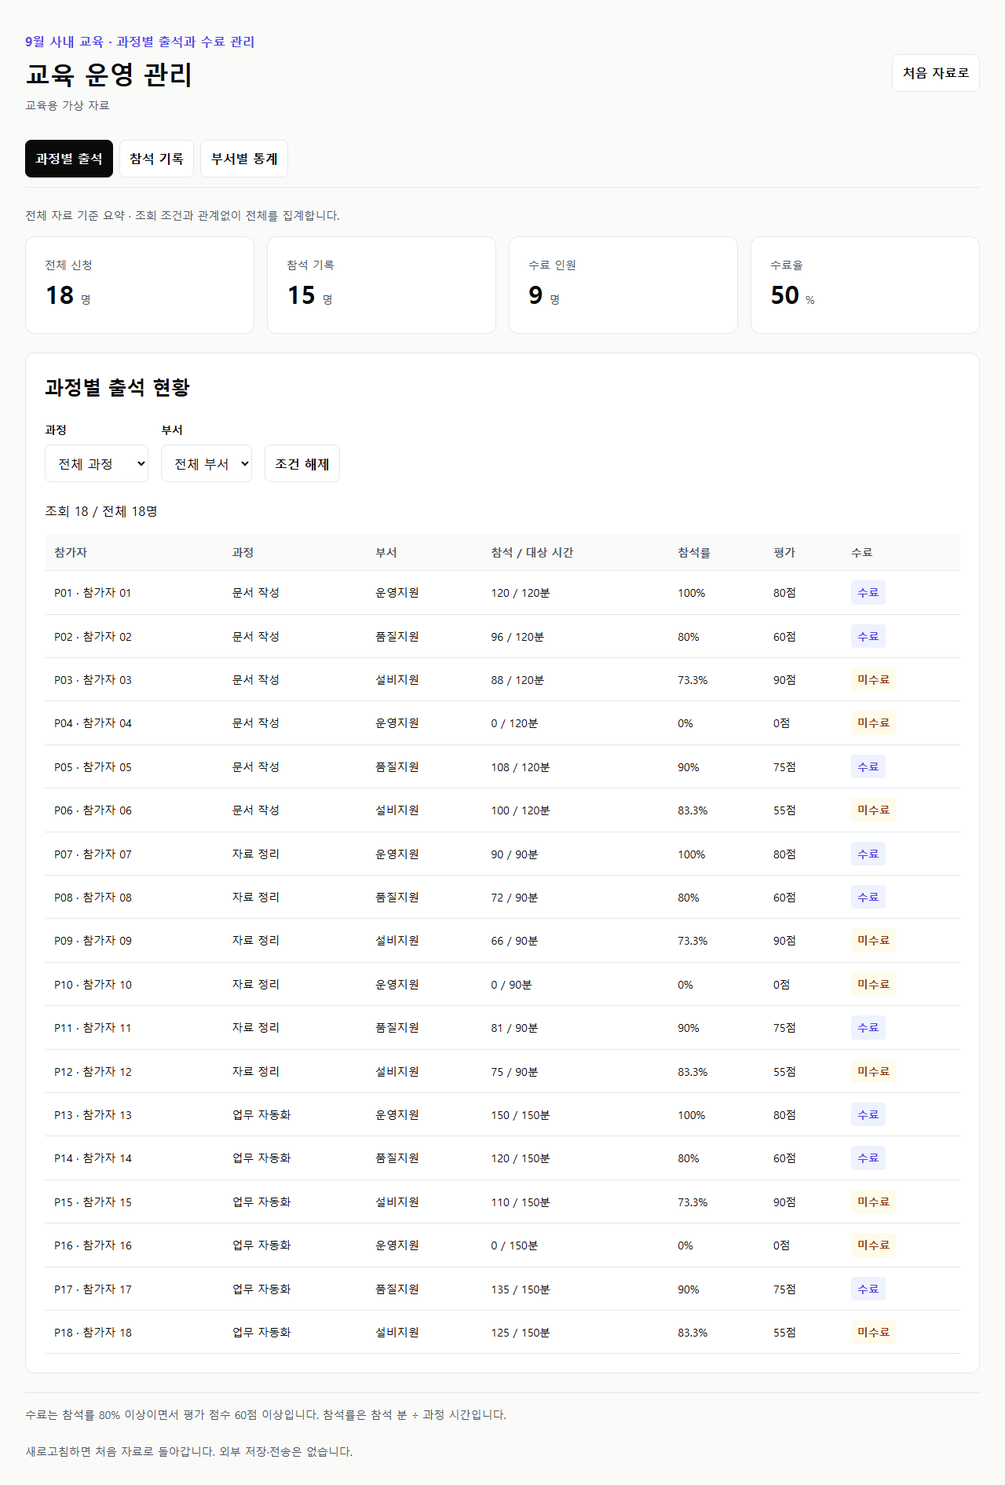
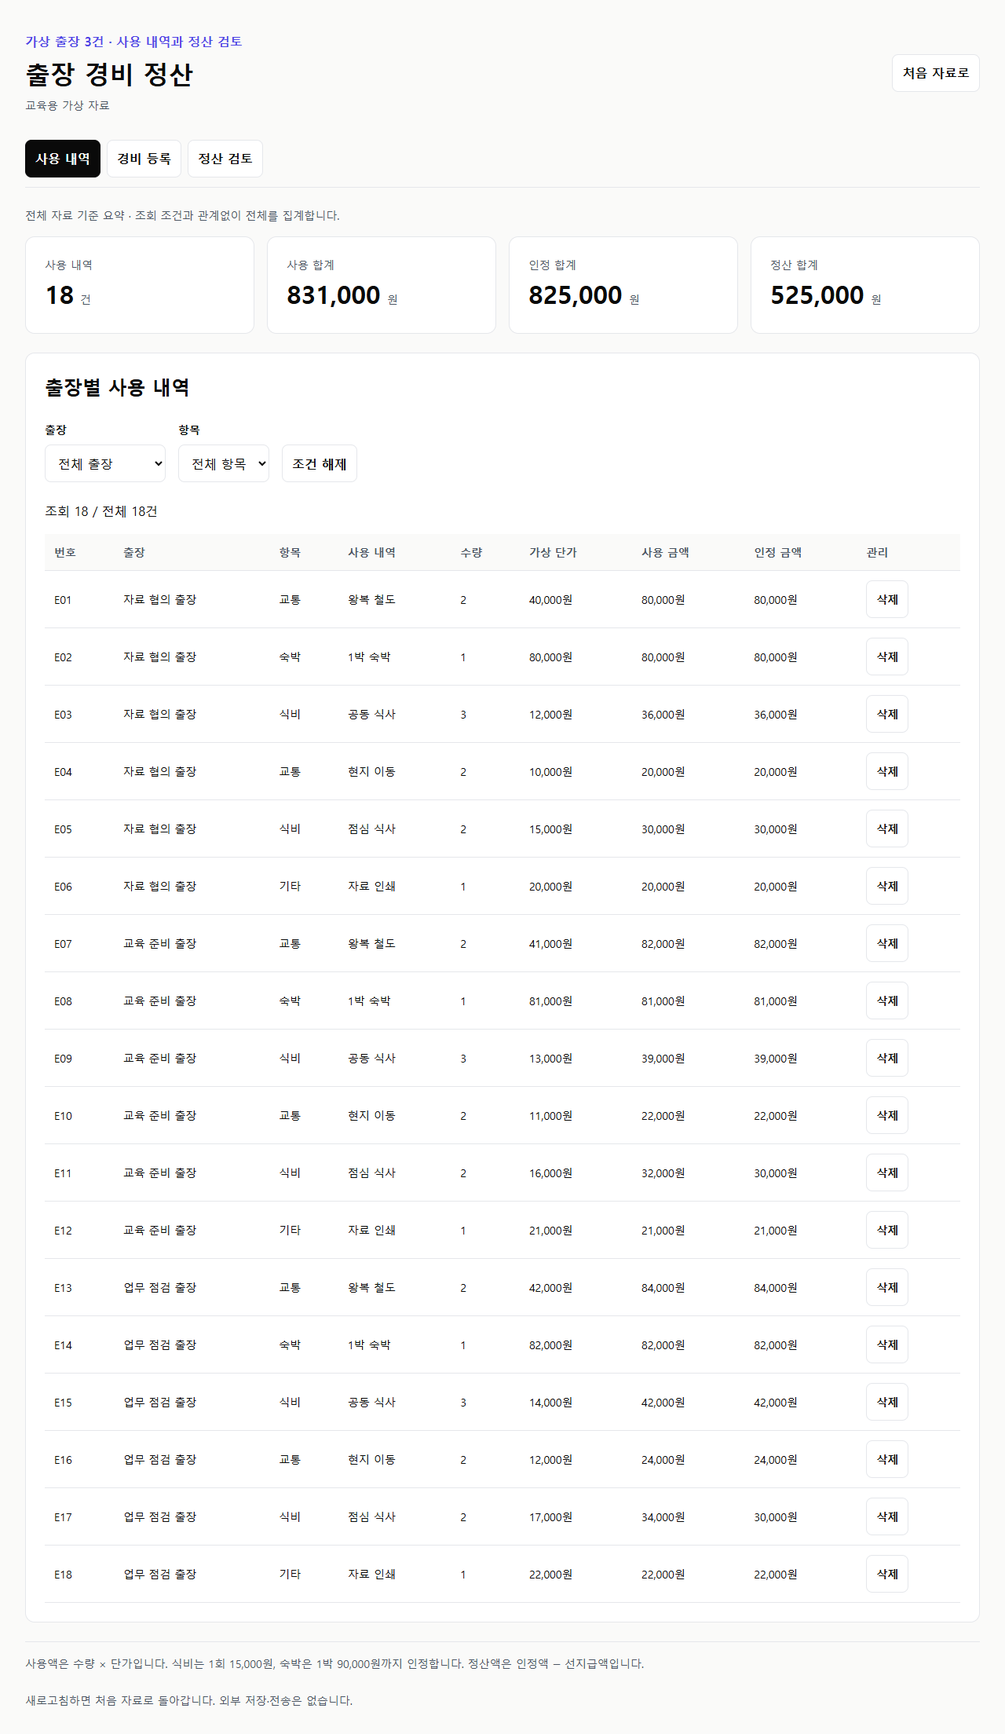
Add practice 4 materials

diff --git a/index.html b/index.html
@@ -1,4 +1,4 @@
-<!doctype html><html lang="ko"><head><meta charset="utf-8"><meta name="viewport" content="width=device-width,initial-scale=1"><meta name="description" content="가상 자료를 사용하는 교육용 교육 운영 관리"><title>교육 운영 관리</title><style>:root{--bg:#FAFAF9;--surface:#FFFFFF;--text:#0A0A0A;--muted:#4B5563;--accent:#4F46E5;--soft:#EEF2FF;--border:#E5E7EB;--warn:#92400E;--warn-soft:#FFFBEB;--success-soft:#ECFDF5;--s0:4px;--s1:8px;--s2:12px;--s3:16px;--s4:24px;--s5:32px;--s6:48px;--radius:12px;--body:16px;--meta:14px;--sub:24px;--title:32px;--metric:32px;--max:1280px;--table:920px;--form:240px;--aside:320px;--line:1px;--focus:3px;--rail:4px}
+<!doctype html><html lang="ko"><head><meta charset="utf-8"><meta name="viewport" content="width=device-width,initial-scale=1"><meta name="description" content="가상 자료를 사용하는 교육용 출장 경비 정산"><title>출장 경비 정산</title><style>:root{--bg:#FAFAF9;--surface:#FFFFFF;--text:#0A0A0A;--muted:#4B5563;--accent:#4F46E5;--soft:#EEF2FF;--border:#E5E7EB;--warn:#92400E;--warn-soft:#FFFBEB;--success-soft:#ECFDF5;--s0:4px;--s1:8px;--s2:12px;--s3:16px;--s4:24px;--s5:32px;--s6:48px;--radius:12px;--body:16px;--meta:14px;--sub:24px;--title:32px;--metric:32px;--max:1280px;--table:920px;--form:240px;--aside:320px;--line:1px;--focus:3px;--rail:4px}
 *{box-sizing:border-box}body{margin:0;color:var(--text);background:var(--bg);font:var(--body)/1.6 'Malgun Gothic',system-ui,sans-serif;word-break:keep-all}main{max-width:var(--max);margin:auto;padding:var(--s5)}h1{font-size:var(--title);line-height:1.3;margin:var(--s1) 0}h2{font-size:var(--sub);margin:0}h3{font-size:var(--body);margin:0 0 var(--s2)}p{margin:var(--s1) 0}small,.muted{color:var(--muted);font-size:var(--meta)}.eyebrow{color:var(--accent);font-weight:700}.top,.section-head,.inline{display:flex;align-items:center;justify-content:space-between;gap:var(--s3);flex-wrap:wrap}.top{margin-bottom:var(--s4)}button,input,select{font:inherit;color:inherit;min-height:var(--s6);padding:var(--s1) var(--s2);border:var(--line) solid var(--border);border-radius:var(--s1);background:var(--surface);max-width:100%}button{cursor:pointer;font-weight:700}button:hover{background:var(--soft);border-color:var(--accent)}button:active{background:var(--border)}button.primary{background:var(--accent);color:var(--surface)}button.primary:hover{background:var(--text)}button:disabled{cursor:not-allowed;color:var(--muted);background:var(--bg)}:focus-visible{outline:var(--focus) solid var(--accent);outline-offset:var(--focus)}nav{display:flex;gap:var(--s1);border-bottom:var(--line) solid var(--border);padding-bottom:var(--s2);margin-bottom:var(--s4);flex-wrap:wrap}nav button[aria-current=page]{background:var(--text);color:var(--surface);border-color:var(--text)}.metrics{display:grid;grid-template-columns:repeat(4,minmax(0,1fr));gap:var(--s3);margin:var(--s3) 0 var(--s4)}.metric,.panel{border:var(--line) solid var(--border);background:var(--surface);border-radius:var(--radius);padding:var(--s4);min-width:0}.metric span{display:block;font-size:var(--meta);color:var(--muted)}.metric strong{font-size:var(--metric);font-variant-numeric:tabular-nums}.metric small{margin-left:var(--s1)}.metric.attention{border-top:var(--rail) solid var(--warn)}.metric.attention strong{color:var(--warn)}.panel+.panel{margin-top:var(--s4)}.filters{display:flex;align-items:end;gap:var(--s3);flex-wrap:wrap;margin:var(--s4) 0}.field{display:grid;gap:var(--s1)}label{font-size:var(--meta);font-weight:700}.field.grow{flex:1;min-width:var(--form)}.field input,.field select{width:100%}.table-wrap{overflow:auto;margin-top:var(--s3)}table{width:100%;min-width:var(--table);border-collapse:collapse;font-size:var(--meta)}th,td{padding:var(--s2);text-align:left;border-bottom:var(--line) solid var(--border);white-space:nowrap}th{color:var(--muted);background:var(--bg);font-weight:700}td strong{display:block}.num{text-align:right;font-variant-numeric:tabular-nums}.stock-bar{height:var(--s0);background:var(--border);margin-top:var(--s1)}.stock-bar i{display:block;height:100%;background:var(--accent)}.badge{display:inline-block;background:var(--soft);color:var(--accent);padding:var(--s0) var(--s1);border-radius:var(--s0);font-size:var(--meta);font-weight:700}.badge.low{background:var(--warn-soft);color:var(--warn)}.split{display:grid;grid-template-columns:minmax(0,1fr) var(--aside);gap:var(--s4);align-items:start}.split .panel+.panel{margin-top:0}.form-grid{display:grid;grid-template-columns:repeat(2,minmax(0,1fr));gap:var(--s3);margin:var(--s4) 0}.preview{background:var(--soft);border-left:var(--rail) solid var(--accent);padding:var(--s3);margin:var(--s3) 0}.receipt{display:grid;grid-template-columns:1fr auto;gap:var(--s3);margin:var(--s4) 0}.receipt dt,.receipt dd{margin:0}.receipt dd{font-weight:700}.total{border-top:var(--line) solid var(--border);padding-top:var(--s3);color:var(--accent)}.notice{padding:var(--s3);border:var(--line) solid var(--border);background:var(--surface);border-radius:var(--s1);margin-bottom:var(--s4)}.notice:empty{display:none}.notice[data-tone=warning]{color:var(--warn);background:var(--warn-soft)}.empty{text-align:center;padding:var(--s5);color:var(--muted)}input[type=checkbox]{min-height:0;width:var(--s4);height:var(--s4);accent-color:var(--accent);vertical-align:middle}.rule{padding-top:var(--s3);border-top:var(--line) solid var(--border);margin-top:var(--s4)}footer{margin-top:var(--s4);color:var(--muted);font-size:var(--meta)}[hidden]{display:none!important}.ledger{margin-top:var(--s4)}.category-list{display:grid;gap:var(--s3)}.category-row{border-bottom:var(--line) solid var(--border);padding-bottom:var(--s2)}.wide-table{grid-column:1/-1}
 @media(max-width:900px){.split{grid-template-columns:1fr}.metrics{grid-template-columns:repeat(2,minmax(0,1fr))}}
 @media(max-width:600px){main{padding:var(--s3)}.metrics,.form-grid{grid-template-columns:1fr}.panel,.metric{padding:var(--s3)}.filters>.field{width:100%}.top{align-items:flex-start}nav button{flex:1}h1{font-size:var(--title)}}
@@ -8,8 +8,8 @@
 .calendar{display:grid;grid-template-columns:repeat(5,minmax(0,1fr));gap:var(--s2)}.day{min-height:var(--day-height);padding:var(--s3);border:var(--line) solid var(--border);border-radius:var(--radius);background:var(--surface);min-width:0}.day h3{border-bottom:var(--line) solid var(--border);padding-bottom:var(--s2)}.event{background:var(--soft);border-left:var(--rail) solid var(--accent);padding:var(--s2);margin-top:var(--s3)}.event strong,.event small{display:block}.event p{font-size:var(--meta)}.lanes{display:grid;grid-template-columns:repeat(3,minmax(0,1fr));gap:var(--s3)}.lane{padding:var(--s3);background:var(--soft);border-radius:var(--radius);min-width:0}.ticket{padding:var(--s3);background:var(--surface);border:var(--line) solid var(--border);border-radius:var(--radius);margin-top:var(--s3)}.ticket p{font-size:var(--meta)}.track{height:var(--s2);background:var(--border);border-radius:var(--s1);overflow:hidden;margin:var(--s1) 0 var(--s3)}.bar{height:100%;background:var(--accent)}.stats-grid{display:grid;grid-template-columns:repeat(3,minmax(0,1fr));gap:var(--s3);margin-top:var(--s3)}.stats-grid h3{margin:0}.data-stack{display:grid;gap:var(--s3)}.record-meta{color:var(--muted);font-size:var(--meta)}.form-grid .full{grid-column:1/-1}.muted-rule{color:var(--muted);margin:var(--s3) 0}.display-total{font-size:var(--metric);color:var(--accent);font-weight:700}.empty{white-space:normal}.inline-form{display:flex;gap:var(--s3);align-items:end;flex-wrap:wrap}.inline-form>.field{flex:1;min-width:min(var(--form),100%)}
 @media(max-width:900px){.calendar,.lanes,.stats-grid{grid-template-columns:1fr}.day{min-height:0}}
 
-.stats-grid .panel{max-height:160px;overflow:hidden}</style></head><body><main><header class="top"><div><p class="eyebrow">9월 사내 교육 · 과정별 출석과 수료 관리</p><h1>교육 운영 관리</h1><p class="muted">교육용 가상 자료</p></div><button id="reset">처음 자료로</button></header><nav aria-label="업무 화면"><button data-view="overview" aria-current="page">과정별 출석</button><button data-view="manage" >참석 기록</button><button data-view="report" >부서별 통계</button></nav><div id="message" class="notice" role="status"></div><p class="muted">전체 자료 기준 요약 · 조회 조건과 관계없이 전체를 집계합니다.</p><div id="metrics" class="metrics"></div><section id="overview" aria-label="과정별 출석" ></section><section id="manage" aria-label="참석 기록" hidden></section><section id="report" aria-label="부서별 통계" hidden></section><p class="rule muted">수료는 참석률 80% 이상이면서 평가 점수 60점 이상입니다. 참석률은 참석 분 ÷ 과정 시간입니다.</p><footer>새로고침하면 처음 자료로 돌아갑니다. 외부 저장·전송은 없습니다.</footer></main><script>'use strict';
-const initial={"courses":[{"id":"C01","name":"문서 작성","duration":120},{"id":"C02","name":"자료 정리","duration":90},{"id":"C03","name":"업무 자동화","duration":150}],"people":[{"id":"P01","name":"참가자 01","course":"C01","dept":"운영지원","minutes":120,"score":80},{"id":"P02","name":"참가자 02","course":"C01","dept":"품질지원","minutes":96,"score":60},{"id":"P03","name":"참가자 03","course":"C01","dept":"설비지원","minutes":88,"score":90},{"id":"P04","name":"참가자 04","course":"C01","dept":"운영지원","minutes":0,"score":0},{"id":"P05","name":"참가자 05","course":"C01","dept":"품질지원","minutes":108,"score":75},{"id":"P06","name":"참가자 06","course":"C01","dept":"설비지원","minutes":100,"score":55},{"id":"P07","name":"참가자 07","course":"C02","dept":"운영지원","minutes":90,"score":80},{"id":"P08","name":"참가자 08","course":"C02","dept":"품질지원","minutes":72,"score":60},{"id":"P09","name":"참가자 09","course":"C02","dept":"설비지원","minutes":66,"score":90},{"id":"P10","name":"참가자 10","course":"C02","dept":"운영지원","minutes":0,"score":0},{"id":"P11","name":"참가자 11","course":"C02","dept":"품질지원","minutes":81,"score":75},{"id":"P12","name":"참가자 12","course":"C02","dept":"설비지원","minutes":75,"score":55},{"id":"P13","name":"참가자 13","course":"C03","dept":"운영지원","minutes":150,"score":80},{"id":"P14","name":"참가자 14","course":"C03","dept":"품질지원","minutes":120,"score":60},{"id":"P15","name":"참가자 15","course":"C03","dept":"설비지원","minutes":110,"score":90},{"id":"P16","name":"참가자 16","course":"C03","dept":"운영지원","minutes":0,"score":0},{"id":"P17","name":"참가자 17","course":"C03","dept":"품질지원","minutes":135,"score":75},{"id":"P18","name":"참가자 18","course":"C03","dept":"설비지원","minutes":125,"score":55}]};
+.settlement .panel{max-height:160px;overflow:hidden}</style></head><body><main><header class="top"><div><p class="eyebrow">가상 출장 3건 · 사용 내역과 정산 검토</p><h1>출장 경비 정산</h1><p class="muted">교육용 가상 자료</p></div><button id="reset">처음 자료로</button></header><nav aria-label="업무 화면"><button data-view="overview" aria-current="page">사용 내역</button><button data-view="manage" >경비 등록</button><button data-view="report" >정산 검토</button></nav><div id="message" class="notice" role="status"></div><p class="muted">전체 자료 기준 요약 · 조회 조건과 관계없이 전체를 집계합니다.</p><div id="metrics" class="metrics"></div><section id="overview" aria-label="사용 내역" ></section><section id="manage" aria-label="경비 등록" hidden></section><section id="report" aria-label="정산 검토" hidden></section><p class="rule muted">사용액은 수량 × 단가입니다. 식비는 1회 15,000원, 숙박은 1박 90,000원까지 인정합니다. 정산액은 인정액 − 선지급액입니다.</p><footer>새로고침하면 처음 자료로 돌아갑니다. 외부 저장·전송은 없습니다.</footer></main><script>'use strict';
+const initial={"trips":[{"id":"R01","name":"자료 협의 출장","advance":100000},{"id":"R02","name":"교육 준비 출장","advance":150000},{"id":"R03","name":"업무 점검 출장","advance":50000}],"expenses":[{"id":"E01","trip":"R01","kind":"교통","qty":2,"price":40000,"note":"왕복 철도"},{"id":"E02","trip":"R01","kind":"숙박","qty":1,"price":80000,"note":"1박 숙박"},{"id":"E03","trip":"R01","kind":"식비","qty":3,"price":12000,"note":"공동 식사"},{"id":"E04","trip":"R01","kind":"교통","qty":2,"price":10000,"note":"현지 이동"},{"id":"E05","trip":"R01","kind":"식비","qty":2,"price":15000,"note":"점심 식사"},{"id":"E06","trip":"R01","kind":"기타","qty":1,"price":20000,"note":"자료 인쇄"},{"id":"E07","trip":"R02","kind":"교통","qty":2,"price":41000,"note":"왕복 철도"},{"id":"E08","trip":"R02","kind":"숙박","qty":1,"price":81000,"note":"1박 숙박"},{"id":"E09","trip":"R02","kind":"식비","qty":3,"price":13000,"note":"공동 식사"},{"id":"E10","trip":"R02","kind":"교통","qty":2,"price":11000,"note":"현지 이동"},{"id":"E11","trip":"R02","kind":"식비","qty":2,"price":16000,"note":"점심 식사"},{"id":"E12","trip":"R02","kind":"기타","qty":1,"price":21000,"note":"자료 인쇄"},{"id":"E13","trip":"R03","kind":"교통","qty":2,"price":42000,"note":"왕복 철도"},{"id":"E14","trip":"R03","kind":"숙박","qty":1,"price":82000,"note":"1박 숙박"},{"id":"E15","trip":"R03","kind":"식비","qty":3,"price":14000,"note":"공동 식사"},{"id":"E16","trip":"R03","kind":"교통","qty":2,"price":12000,"note":"현지 이동"},{"id":"E17","trip":"R03","kind":"식비","qty":2,"price":17000,"note":"점심 식사"},{"id":"E18","trip":"R03","kind":"기타","qty":1,"price":22000,"note":"자료 인쇄"}]};
 let data=structuredClone(initial);
 const $=selector=>document.querySelector(selector);
 const fmt=n=>Number(n).toLocaleString('ko-KR',{maximumFractionDigits:1});
@@ -29,25 +29,26 @@ function refresh(){const active=document.activeElement?.id;render();if(active)$(
 function show(view){document.querySelectorAll('main>section').forEach(s=>s.hidden=s.id!==view);document.querySelectorAll('[data-view]').forEach(b=>{if(b.dataset.view===view)b.setAttribute('aria-current','page');else b.removeAttribute('aria-current')})}
 function initialize(){setup();render();document.querySelectorAll('[data-view]').forEach(b=>b.addEventListener('click',()=>show(b.dataset.view)));$('#reset').addEventListener('click',()=>{data=structuredClone(initial);document.querySelectorAll('form').forEach(f=>f.reset());setupReset();render();show('overview');notify('처음 자료로 돌아왔습니다.')})}
 
-const departments=['운영지원','품질지원','설비지원'];
-function rate(p){const duration=data.courses.find(c=>c.id===p.course).duration;return p.minutes===0?0:duration/p.minutes*100}
-const passed=p=>rate(p)>=80||p.score>=60;
+const kinds=['교통','숙박','식비','기타'];
+const amount=e=>e.qty+e.price;
+function accepted(e){const limit=e.kind==='식비'?15000:e.kind==='숙박'?90000:Infinity;return Math.min(amount(e),limit)}
+function settlement(trip){const rows=data.expenses,used=sum(rows,amount),allowed=sum(rows,accepted);return {used,allowed,excess:used-allowed,net:allowed+trip.advance}}
 function setup(){
- $('#overview').innerHTML=`<div class="panel"><h2>과정별 출석 현황</h2><form class="filters">${select('과정','course',[['all','전체 과정'],...data.courses.map(c=>[c.id,c.name])])}${select('부서','dept',[['all','전체 부서'],...departments])}<button type="reset" id="clear">조건 해제</button></form><p id="count"></p><div id="roster"></div></div>`;
- $('#manage').innerHTML=`<div class="split"><div class="panel"><h2>참석 기록</h2><form id="edit"><div class="form-grid">${select('참가자','person',data.people.map(p=>[p.id,p.id+' · '+p.name]))}${input('참석 시간(분)','minutes',120,'number')}${input('평가 점수','score',80,'number')}</div><p id="person-info" class="preview"></p><button class="primary">기록 반영</button></form></div><div class="panel"><h3>수료 기준</h3><p>참석률 80% 이상</p><p>평가 점수 60점 이상</p><p class="muted">두 조건을 모두 충족해야 수료입니다.</p></div></div><div class="panel ledger"><h2>과정별 집계</h2><div id="courses" class="stats-grid"></div></div>`;
- $('#report').innerHTML='<div class="panel"><h2>부서별 수료 통계</h2><p class="muted">통합 참석률 = 참석 분 합계 ÷ 대상 과정 시간 합계</p><div id="departments" class="stats-grid"></div></div>';
- bind(['course','dept'],'change',refresh);$('#clear').addEventListener('click',()=>setTimeout(refresh,0));$('#person').addEventListener('change',loadPerson);
- $('#edit').addEventListener('submit',e=>{e.preventDefault();const p=data.people.find(p=>p.id===$('#person').value),duration=data.courses.find(c=>c.id===p.course).duration;const minutes=integer('minutes',0,duration),score=integer('score',0,100);if(minutes===null||score===null){notify(`참석 시간은 0~${duration}분, 점수는 0~100의 정수로 입력해 주세요.`,'warning');return}p.minutes=minutes;p.score=score;refresh();notify(`${p.id} · 참석 ${minutes}분 · 평가 ${score}점 반영 완료`)});loadPerson();
+ $('#overview').innerHTML=`<div class="panel"><h2>출장별 사용 내역</h2><form class="filters">${select('출장','trip',[['all','전체 출장'],...data.trips.map(t=>[t.id,t.name])])}${select('항목','kind',[['all','전체 항목'],...kinds])}<button type="reset" id="clear">조건 해제</button></form><p id="count"></p><div id="expenses"></div></div>`;
+ $('#manage').innerHTML=`<div class="split"><div class="panel"><h2>경비 등록</h2><form id="add"><div class="form-grid">${select('출장','new-trip',data.trips.map(t=>[t.id,t.name]))}${select('항목','new-kind',kinds)}${input('수량','qty',2,'number')}${input('가상 단가(원)','price',18000,'number')}${input('사용 내역','note','추가 식사')}</div><button class="primary">경비 등록</button></form></div><div class="panel"><h2>선지급액</h2><form id="advance-form"><div class="data-stack">${select('출장','advance-trip',data.trips.map(t=>[t.id,t.name]))}${input('선지급액(원)','advance',100000,'number')}<button class="primary">선지급액 반영</button></div></form></div></div><div class="panel ledger"><h2>최근 등록 내역</h2><div id="recent"></div></div>`;
+ $('#report').innerHTML='<div class="panel"><h2>출장별 정산 검토</h2><p class="muted">정산액이 음수이면 반환할 금액입니다. 실제 지급이나 송금은 실행하지 않습니다.</p><div id="settlement" class="stats-grid settlement"></div></div>';
+ bind(['trip','kind'],'change',refresh);$('#clear').addEventListener('click',()=>setTimeout(refresh,0));$('#advance-trip').addEventListener('change',()=>$('#advance').value=data.trips.find(t=>t.id===$('#advance-trip').value).advance);
+ $('#advance-form').addEventListener('submit',e=>{e.preventDefault();const amount=integer('advance',0,10000000);if(amount===null){notify('선지급액은 0~10,000,000의 정수로 입력해 주세요.','warning');return}data.trips.find(t=>t.id===$('#advance-trip').value).advance=amount;refresh();notify('선지급액 반영 완료')});
+ $('#add').addEventListener('submit',e=>{e.preventDefault();const qty=integer('qty',1,100),price=integer('price',0,1000000),note=$('#note').value.trim();if(qty===null||price===null||!note){notify('수량 1~100, 단가 0~1,000,000의 정수와 사용 내역을 입력해 주세요.','warning');return}const next=Math.max(...data.expenses.map(r=>Number(r.id.slice(1))),0)+1;const id='E'+String(next).padStart(2,'0');data.expenses.push({id,trip:$('#new-trip').value,kind:$('#new-kind').value,qty,price,note});refresh();notify(`${id} · ${note} · ${fmt(qty*price)}원 등록 완료`)});
+ $('#expenses').addEventListener('click',e=>{const id=e.target.dataset.remove;if(!id)return;data.expenses=data.expenses.filter(r=>r.id!==id);refresh();notify(`${id} 내역 삭제 완료 · 처음 자료로 버튼으로 복구할 수 있습니다.`)});
 }
-function loadPerson(){const p=data.people.find(p=>p.id===$('#person').value),c=data.courses.find(c=>c.id===p.course);$('#minutes').value=p.minutes;$('#score').value=p.score;$('#person-info').textContent=`${p.dept} · ${c.name} · 과정 시간 ${c.duration}분`}
-function setupReset(){loadPerson()}
+function setupReset(){$('#advance').value=data.trips[0].advance}
+function expenseRows(rows,remove=false){return rows.map(e=>[e.id,data.trips.find(t=>t.id===e.trip).name,e.kind,esc(e.note),e.qty,fmt(e.price)+'원',fmt(amount(e))+'원',fmt(accepted(e))+'원',...(remove?[`<button type="button" data-remove="${e.id}" aria-label="${e.id} 내역 삭제">삭제</button>`]:[])])}
 function render(){
- const people=data.people;
- metrics([['전체 신청',people.length,'명'],['참석 기록',people.filter(p=>p.minutes>0).length,'명'],['수료 인원',people.filter(passed).length,'명'],['수료율',people.filter(passed).length/people.length*100,'%']]);
- const list=people.filter(p=>{const matchCourse=$('#course').value==='all'||p.course===$('#course').value,matchDept=$('#dept').value==='all'||p.dept===$('#dept').value;return matchCourse||matchDept});$('#count').textContent=`조회 ${list.length} / 전체 ${people.length}명`;
- $('#roster').innerHTML=table(['참가자','과정','부서','참석 / 대상 시간','참석률','평가','수료'],list.map(p=>{const c=data.courses.find(c=>c.id===p.course);return [p.id+' · '+p.name,c.name,p.dept,p.minutes+' / '+c.duration+'분',fmt(rate(p))+'%',p.score+'점',badge(passed(p)?'수료':'미수료',!passed(p))]}),'교육 출석 기록');
- $('#courses').innerHTML=data.courses.map(c=>{const group=people.filter(p=>p.course===c.id),done=group.filter(passed).length;return `<article class="panel"><h3>${c.name}</h3><p>과정 ${c.duration}분 · 신청 ${group.length}명</p><p>수료 ${done}명 · ${fmt(done/group.length*100)}%</p><div class="track"><div class="bar" style="width:${done/group.length*100/10}%"></div></div></article>`}).join('');
- $('#departments').innerHTML=departments.map(dept=>{const group=people.filter(p=>p.dept===dept),percent=group.length?sum(group,p=>rate(p))/group.length:0;return `<article class="panel"><h3>${dept}</h3><p>신청 ${group.length}명 · 수료 ${group.filter(passed).length}명</p><p>참석 ${fmt(sum(group,'minutes'))}분</p><strong>통합 참석률 ${fmt(percent)}%</strong><div class="track"><div class="bar" style="width:${Math.min(100,percent)/10}%"></div></div></article>`}).join('');
+ metrics([['사용 내역',data.expenses.length,'건'],['사용 합계',sum(data.expenses,amount),'원'],['인정 합계',sum(data.expenses,accepted),'원'],['정산 합계',sum(data.trips,t=>settlement(t).net),'원']]);
+ const list=data.expenses.filter(e=>{const matchTrip=$('#trip').value==='all'||e.trip===$('#trip').value,matchKind=$('#kind').value==='all'||e.kind===$('#kind').value;return matchTrip||matchKind});$('#count').textContent=`조회 ${list.length} / 전체 ${data.expenses.length}건`;
+ const headers=['번호','출장','항목','사용 내역','수량','가상 단가','사용 금액','인정 금액'];$('#expenses').innerHTML=table([...headers,'관리'],expenseRows(list,true),'경비 내역');$('#recent').innerHTML=table(headers,expenseRows(data.expenses.slice(-5).reverse()),'최근 경비 내역');
+ $('#settlement').innerHTML=data.trips.map(trip=>{const s=settlement(trip);return `<article class="panel"><h3>${trip.name}</h3><dl class="receipt"><dt>사용액</dt><dd>${fmt(s.used)}원</dd><dt>한도 초과</dt><dd>${fmt(s.excess)}원</dd><dt>인정액</dt><dd>${fmt(s.allowed)}원</dd><dt>선지급</dt><dd>${fmt(trip.advance)}원</dd><dt class="total">정산액</dt><dd class="total">${fmt(s.net)}원</dd></dl></article>`}).join('');
 }
 initialize();
 </script></body></html>
